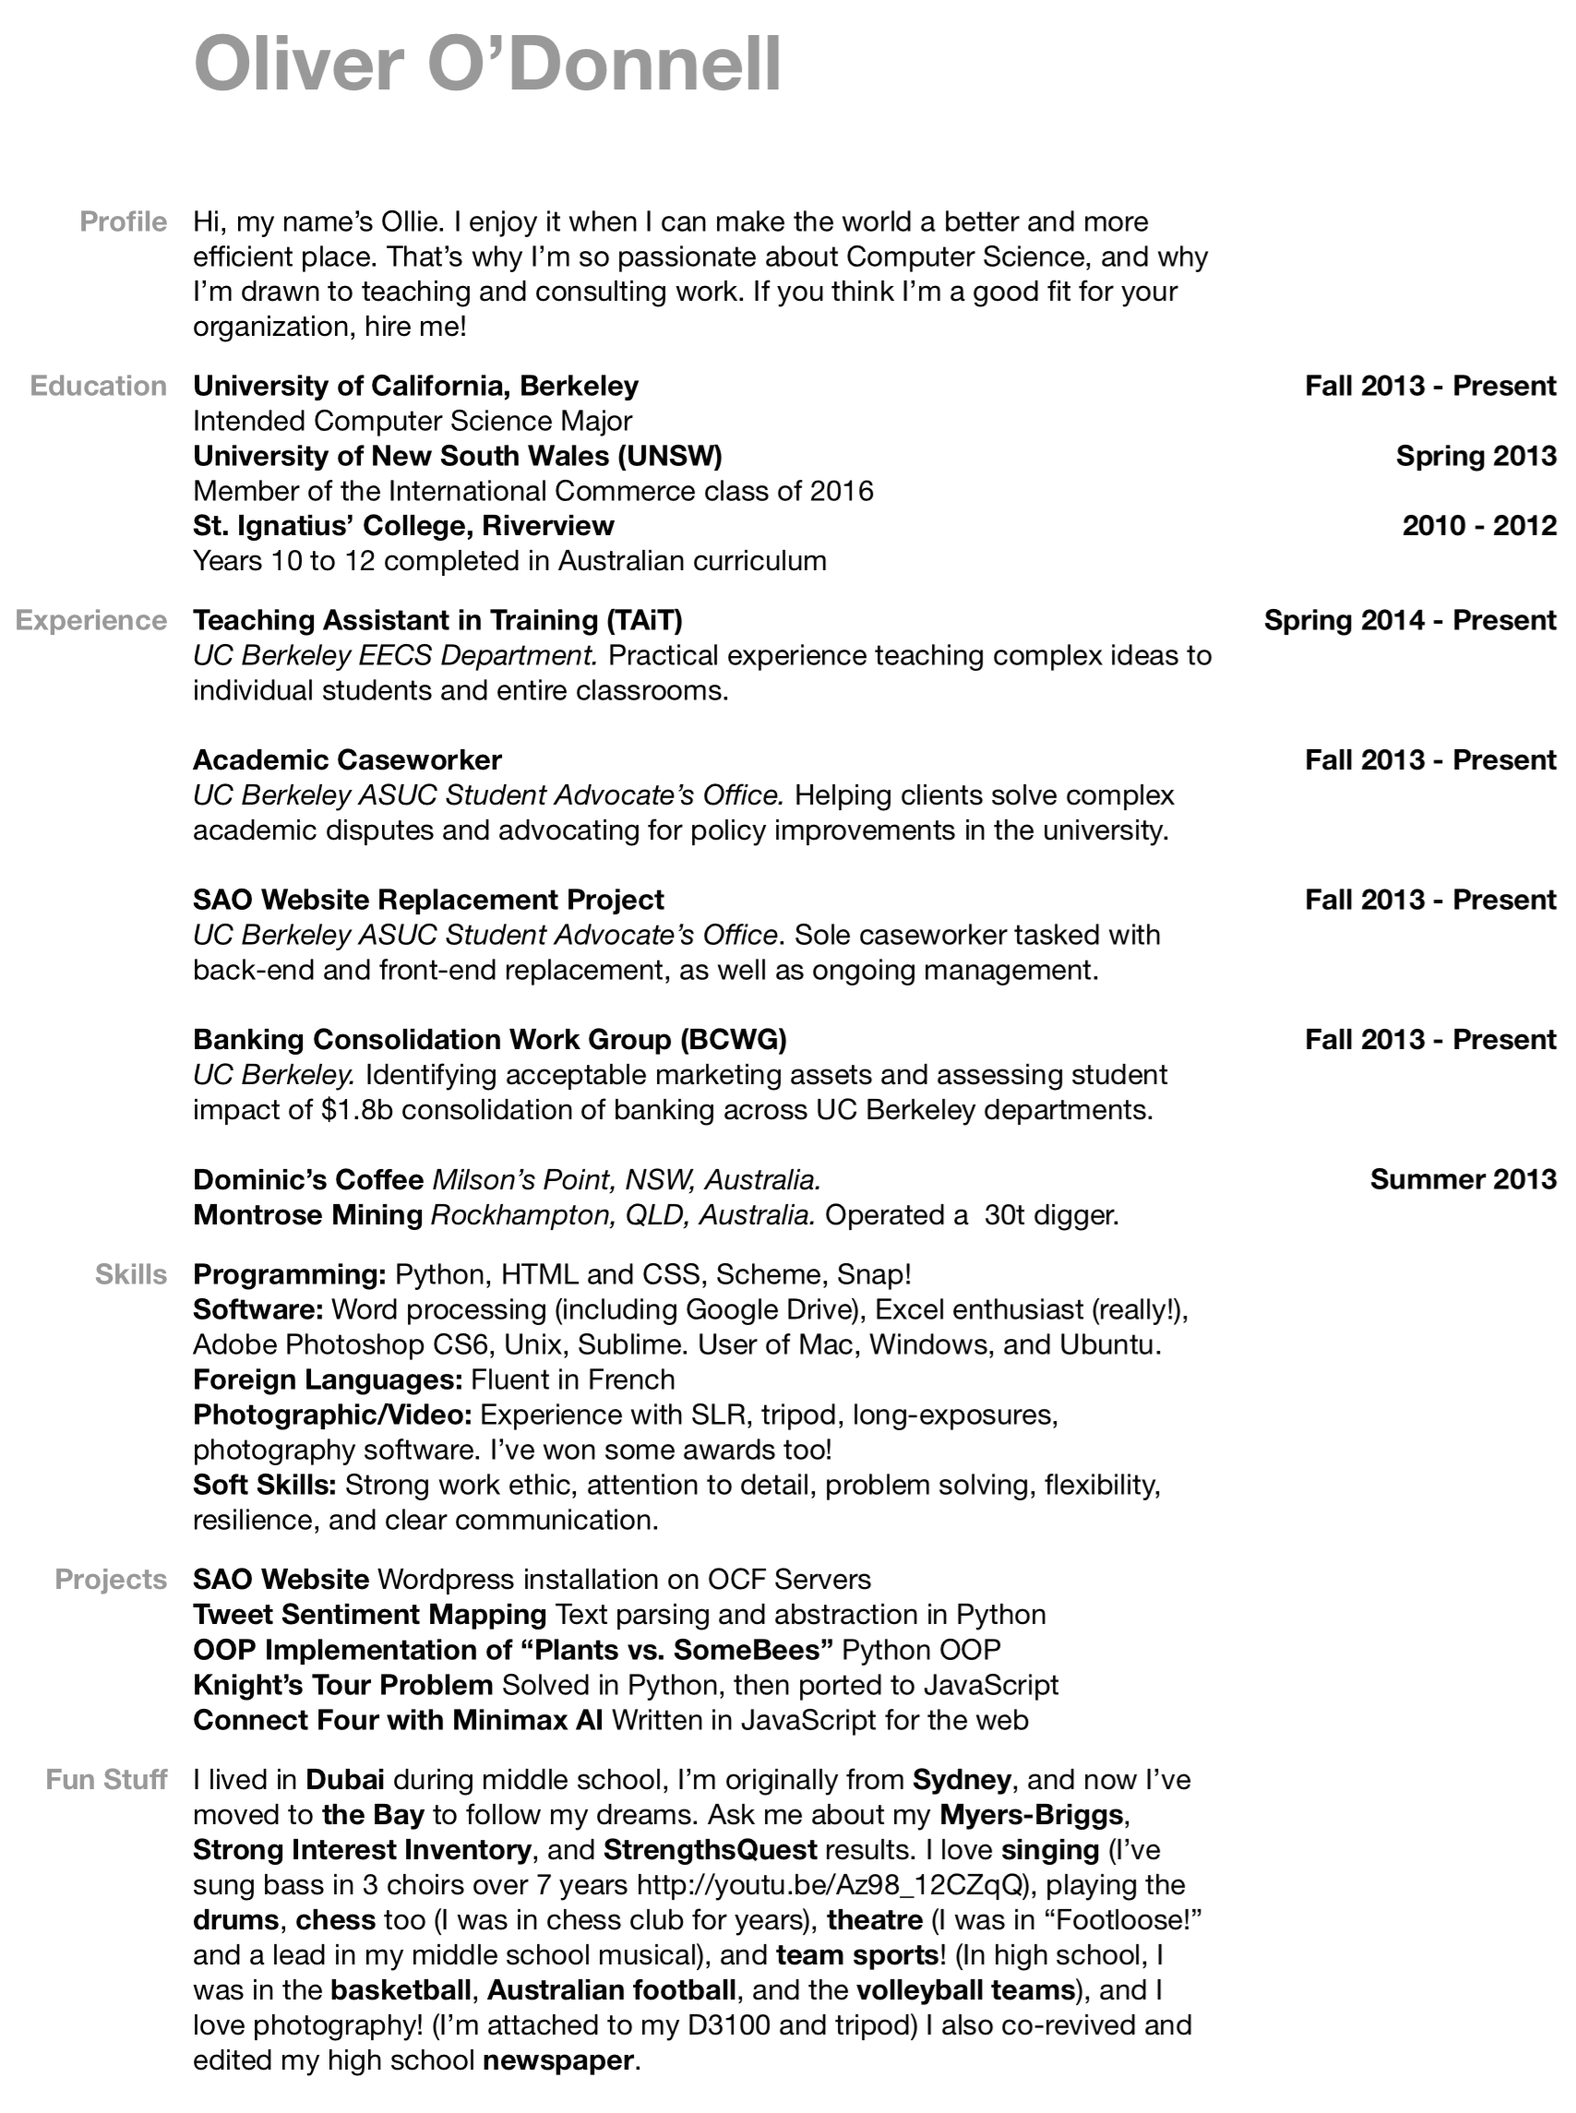
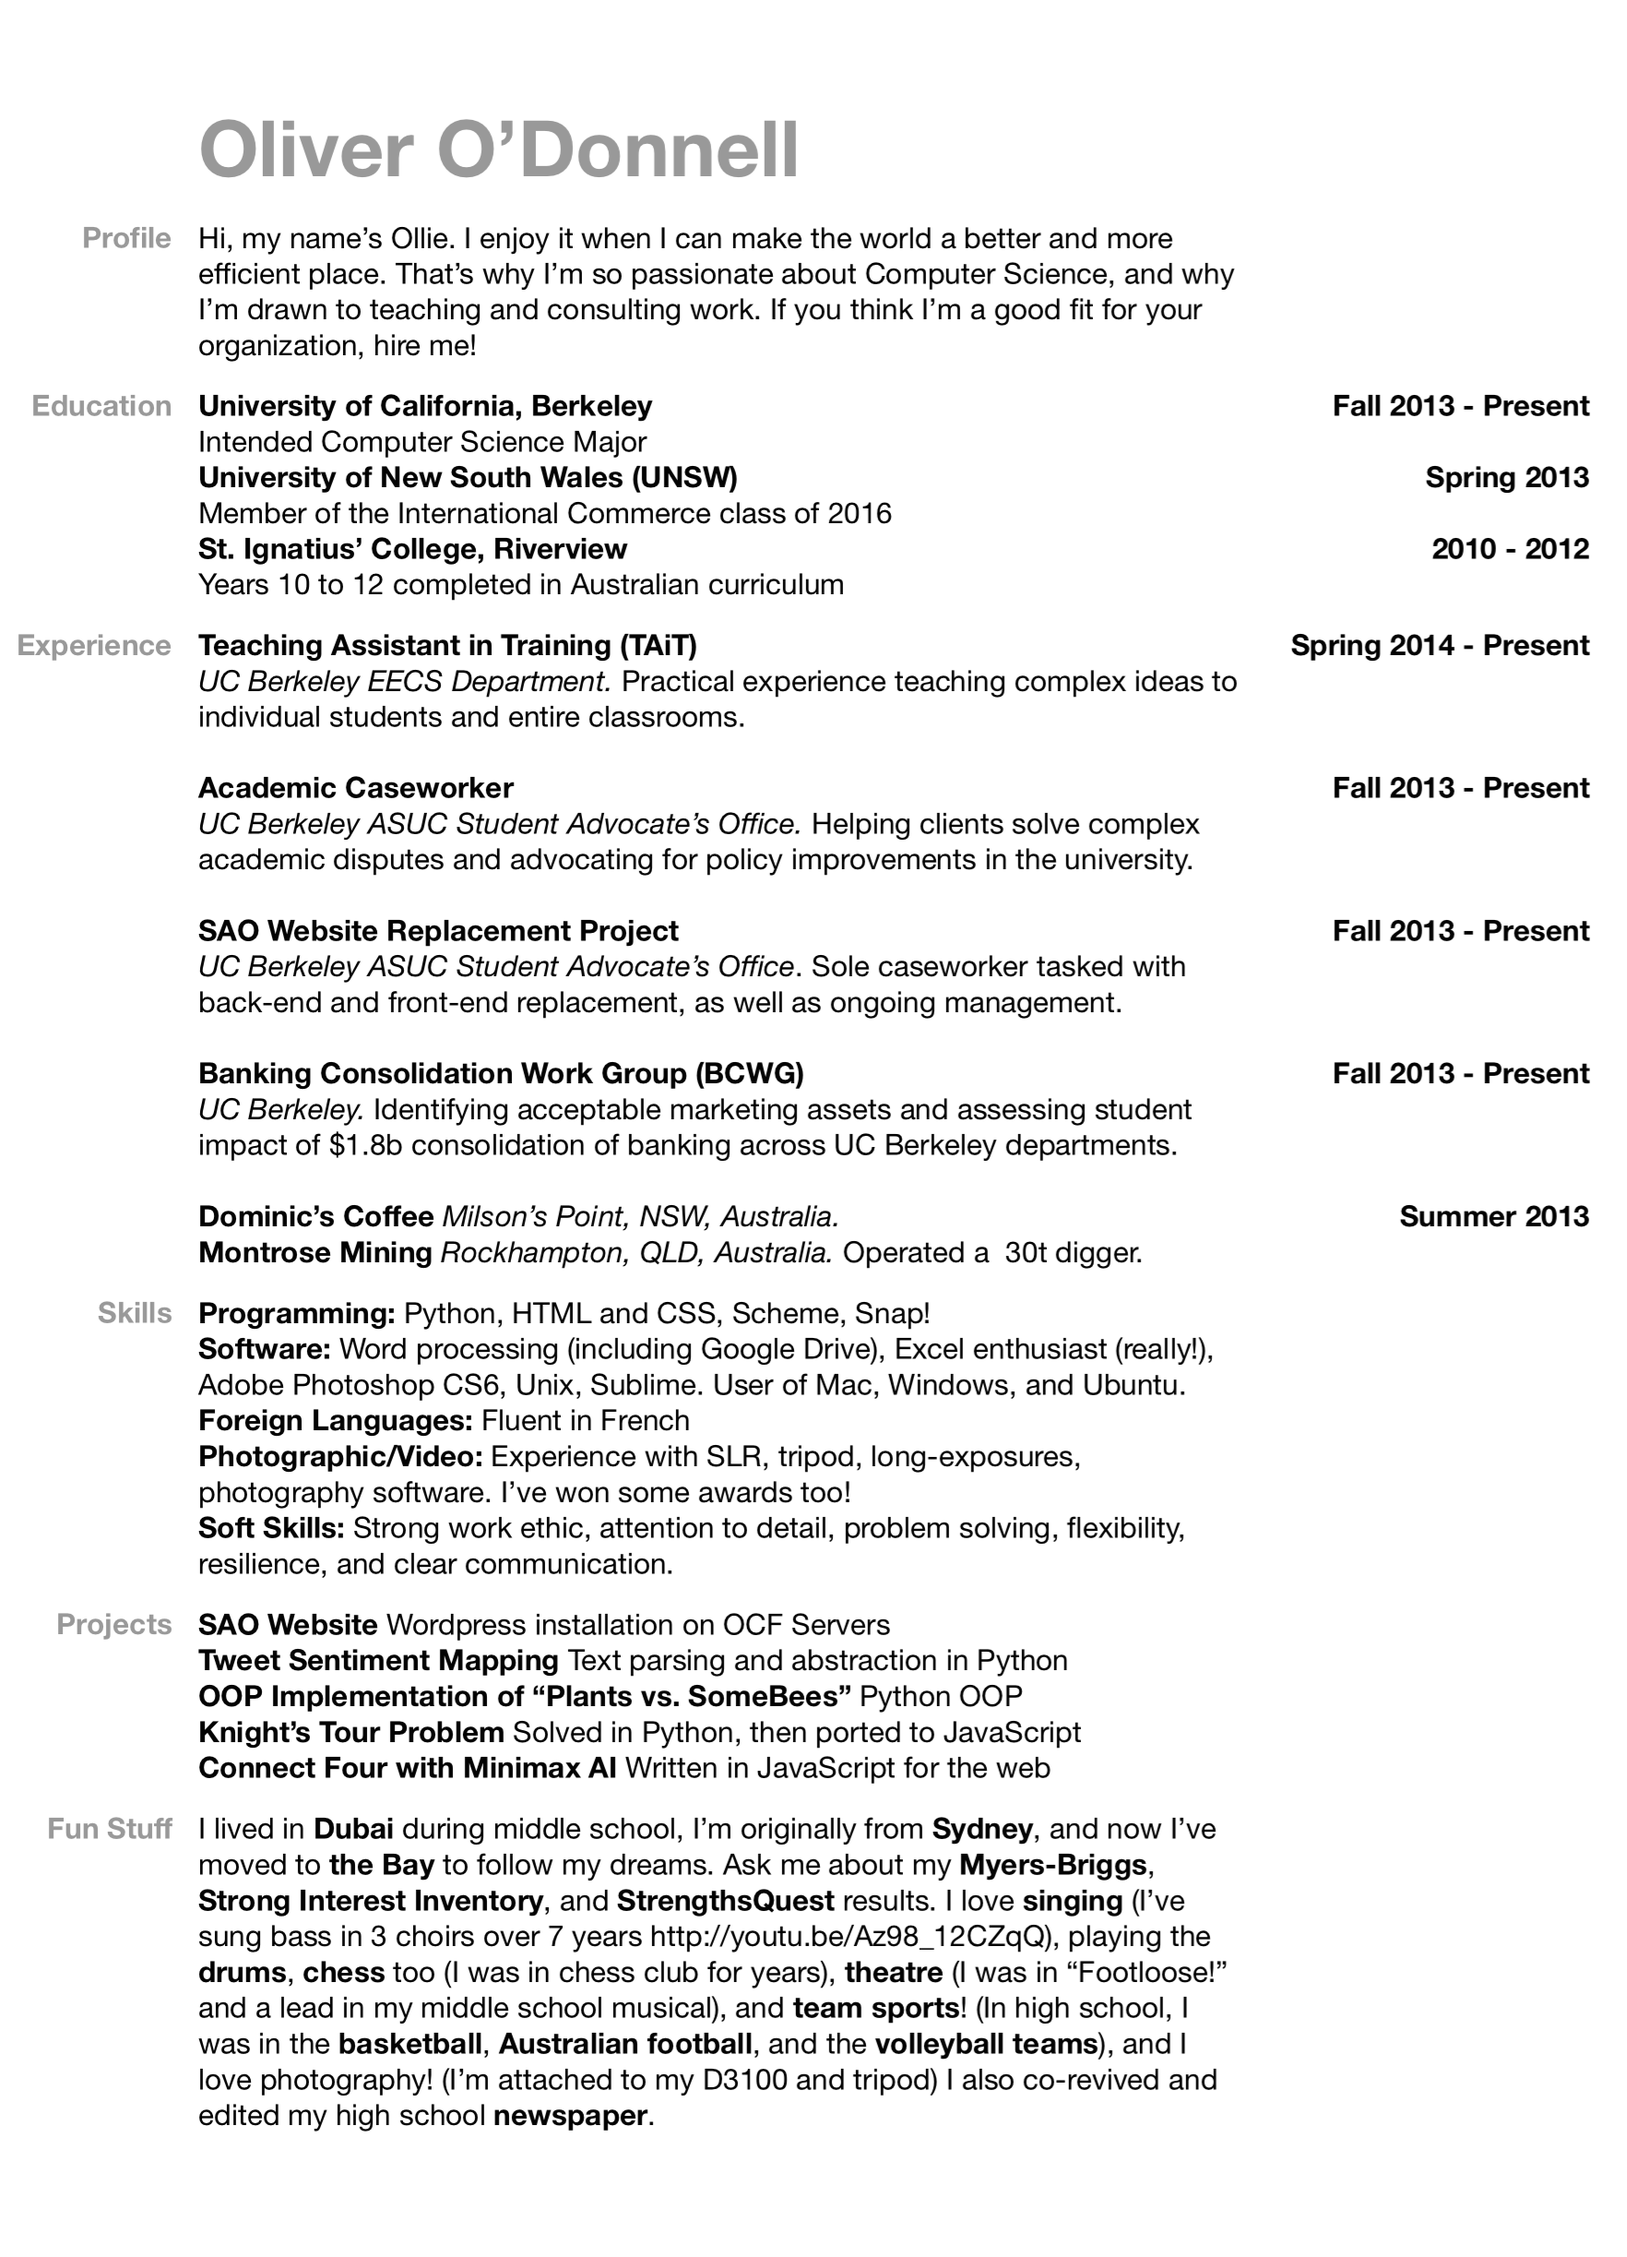
a

diff --git a/resume/index.html b/resume/index.html
@@ -51,7 +51,7 @@
 	  	</div>
 	  	<div class="container-fluid">
 	      <div class="row">
-			<div class="col-md-10 col-md-offset-2">
+			<div class="col-md-8 col-md-offset-2">
 				<img src="../static/resume.png">
 			</div>
 			</div>
